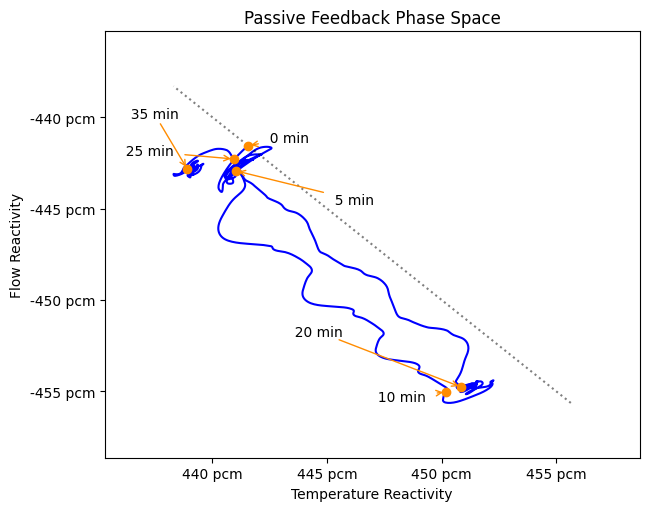
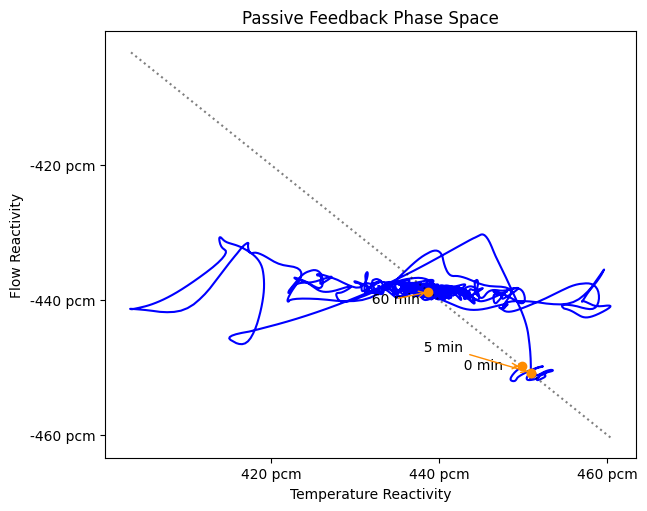
quantify plot

diff --git a/simulation.py b/simulation.py
@@ -12,7 +12,7 @@ plots.kill()
 '''
 The algorithm function in the file initial.py uses binary search to identify the cold temperature that when paired with a hot temperature of 700 C gives the desired power output. It uses the natural circulation flow rate, heat capacity, and temperature difference to calculate the power for a given cold temperature, and adjusts the cold temperature as needed based on the result. 
 '''
-Q = 8000 #kW
+Q = 10000 #kW
 if Q <=0:
     print('The reactor power is calculated using an exponential. Use a positive initial power. This code cannot simulate bringing up to hot-standby')
     exit()
@@ -36,10 +36,11 @@ plots.x_vs_Tx("img/animateTx_t/t-0.png",0.0,T_x,T_cold,T_hot)
 '''
 Q0 is calculated above, Q1 is the power after the first power change, Q2 is the power after the second power change. tlen is the total time in seconds of the simulation (3600sec = 1hr). t01 is the time over which the first power change occurs (ramp function ~ use t01 = 0 for step response). t1 is the time in seconds for which the reactor is held at Q1. t12 is the time in seconds over which the second power change occurs. t2 is calculated and is the time between the end of the second power change and the end of the simulation
 '''
-Q1,Q2 = 10000,8000
+#Q1,Q2 = 8000,10000
+Q1 = Q2 = 8000
 #Q1,Q2 = Q0,Q0
 
-t0,t01,t1,t12,t2 = 300,300,600,300,600
+t0,t01,t1,t12,t2 = 300,0,3300,0,0
 times = (0,t0,t01,t1,t12,t2)
 tlen= t0+t01+t1+t12+t2
 
@@ -123,7 +124,7 @@ print('plotting temperature profiles')
 Tmin = np.min(np.array(T_x_t))
 Tmax = np.max(np.array(T_x_t))
 
-exit()
+#exit()
 
 for step, T_x in tqdm(zip(t[1:],T_x_t),total=len(T_x_t)):
     if step*params.dt%60 ==0:

diff --git a/plots.py b/plots.py
@@ -26,7 +26,7 @@ def x_vs_Tx(path,t,T_x,Tmin,Tmax):
     plt.close()
 
 def t_vs_Q(t,Qhex,Qcore,SP):
-    plt.figure(figsize=(8,4.5))
+    fig,ax = plt.subplots(figsize=(8,4.5))
     plt.gca().yaxis.set_major_formatter(FormatStrFormatter('%.2f MW'))
     plt.plot(t/60,Qhex/1e3,label='Heat Exchanger',color='blue')
     plt.plot(t/60,np.array(SP)/1e3, label='Core Set-Point',color='orange',linestyle=':')
@@ -36,6 +36,27 @@ def t_vs_Q(t,Qhex,Qcore,SP):
     plt.legend(loc='best')
     plt.xlabel('time, t (min)')
     plt.ylabel('Power duty and load vs. time')
+    
+    Quant = False
+    if Quant:
+        ax.grid(b=True, which='both', color='gray', linestyle='-')
+        start = Qhex[0]/1e3
+        stop =  Qhex[-1]/1e3
+        step = stop-start
+        
+        print(f'minimum {np.min(Qcore)}')
+        print(f'maximum {np.max(Qcore)}')
+        
+        delay = start+0.1*step
+        rise = start+0.9*step
+        settlelow,settlehigh =stop - 0.05*step, stop + 0.05*step
+        
+        plt.axhline(delay, linestyle=":",color='black') #delaytime 10%
+        plt.axhline(rise, linestyle=":",color='black')
+        plt.axhline(settlelow, linestyle=":",color='black')
+        plt.axhline(settlehigh, linestyle=":",color='black')
+        plt.show()
+    
     plt.savefig("img/t_vs_Qt.png")
     plt.clf()
     plt.close()

diff --git a/controller.py b/controller.py
@@ -13,8 +13,8 @@ def prefilter(Qhex,time,tau):
     return Qcore_SP
 
 #Proportional Control Loop
-Control = True
-#Control = False
+#Control = True
+Control = False
 bias = 111.41092285851987
 Ku,Tu = 3e-4,45
 KP = 0.45*Ku
